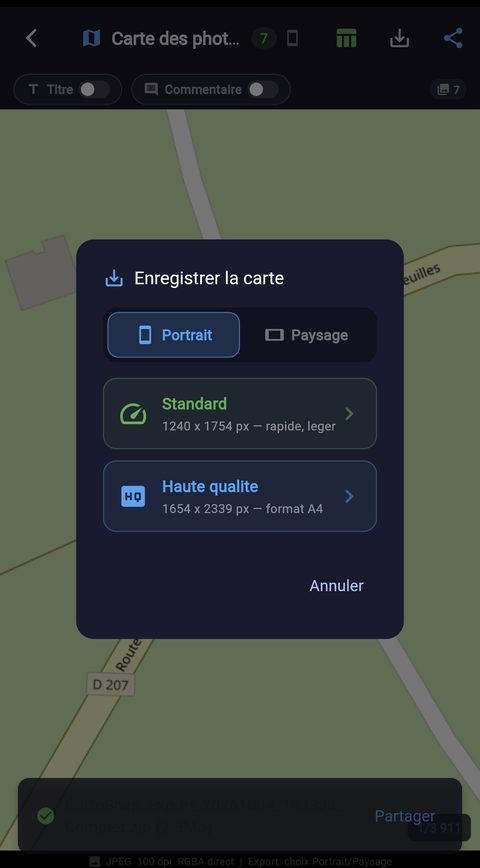
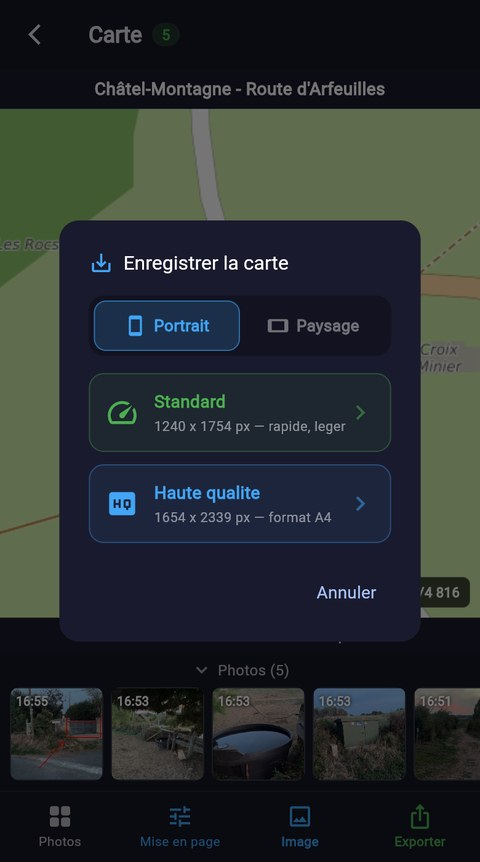
README : captures de la nouvelle interface (v1.2.0)
Claude-Session: https://claude.ai/code/session_01N6yeTEZXbkzDEeub1JciT3

diff --git a/README.md b/README.md
@@ -27,12 +27,12 @@
 | 1 — Viser | 2 — Annoter | 3 — Retrouver |
 |:---:|:---:|:---:|
 | ![Viseur](docs/screenshots/viseur.jpg) | ![Annotation](docs/screenshots/annotation.jpg) | ![Galerie](docs/screenshots/galerie.jpg) |
-| Position GPS, adresse et X/Y Lambert 93<br>en direct, mini-carte et objectifs | Stylo 12 couleurs, commentaire<br>ajouté sous la photo | Galerie de l'appli :<br>adresse et date de chaque photo |
+| Position GPS, adresse et X/Y Lambert 93<br>en direct, cap, mini-carte ronde | Stylo 12 couleurs, commentaire<br>et canevas ajoutés sous la photo | Galerie classée par jour,<br>en grille ou en liste |
 
 | 4 — Vérifier | 5 — Situer | 6 — Exporter |
 |:---:|:---:|:---:|
 | ![Photo](docs/screenshots/photo_detail.jpg) | ![Carte des photos](docs/screenshots/carte_photos.jpg) | ![Export](docs/screenshots/export_donnees.jpg) |
-| Bandeau incrusté, X/Y, altitude,<br>précision et cap enregistrés | Carte des photos (vignettes)<br>et export JPEG de la carte | CSV, ZIP, projet QGIS<br>ou Carte HTML |
+| Canevas sous la photo, X/Y, altitude,<br>précision et cap enregistrés | Carte des photos, bandeau de vignettes,<br>mise en page et image JPEG | Compte rendu (Carte HTML), projet QGIS<br>ou photos + tableau Excel |
 
 | Résultat : la Carte HTML ouverte dans un navigateur |
 |:---:|
@@ -142,7 +142,7 @@ flutter test
 
 <p align="center"><img src="docs/screenshots/annotation.jpg" width="260" alt="Annotation"/></p>
 
-**3. Retrouver et vérifier.** La galerie (vignette en bas à gauche du viseur) présente les photos jour par jour, en grille ou en liste (bascule en haut à droite). Une photo ouverte montre le bandeau incrusté, les X/Y Lambert 93, l'altitude, la précision, le cap et le nom du fichier `AAAAMMJJHHMMSS_X…_Y….jpg`.
+**3. Retrouver et vérifier.** La galerie (vignette en bas à gauche du viseur) présente les photos jour par jour, en grille ou en liste (bascule en haut à droite). Une photo ouverte montre le bandeau ou le canevas ajouté sous la photo, les X/Y Lambert 93, l'altitude, la précision, le cap et le nom du fichier `AAAAMMJJHHMMSS_X…_Y….jpg`.
 
 <p align="center"><img src="docs/screenshots/galerie.jpg" width="260" alt="Galerie"/> &nbsp; <img src="docs/screenshots/photo_detail.jpg" width="260" alt="Détail d'une photo"/></p>
 
@@ -212,7 +212,8 @@ Le GPS fournit des coordonnées WGS84, traitées ici comme RGF93. L'écart entre
 | Photos de la version web | Gardées dans Safari, pas dans la photothèque : à exporter ou partager régulièrement. Safari peut effacer les données d'un site non installé sur l'écran d'accueil. |
 | Carte HTML hors connexion | Les photos et les coordonnées s'affichent, mais la carte (Leaflet et fonds) a besoin d'internet à l'ouverture. |
 | Rapport PDF | Produit par la fenêtre d'impression du système (*Enregistrer en PDF*), pas par l'application elle-même. |
-| Signature de l'APK | Signé avec une clé de test : une ancienne LambertSnap signée autrement doit être désinstallée avant d'installer CartoSnap. |
+| Résolution sur iPhone (web) | Safari capture une image du flux vidéo de la caméra (jusqu'à la 4K, en 16:9), pas une photo de l'appareil photo natif de l'iPhone. |
+| Signature de l'APK | Signé avec une clé de test : Android peut demander de désinstaller la version précédente avant une mise à jour. Les photos de `DCIM/CartoSnap` restent sur le téléphone et sont retrouvées au démarrage (position, cap, date), sans leur adresse. |
 
 ---
 
@@ -220,27 +221,29 @@ Le GPS fournit des coordonnées WGS84, traitées ici comme RGF93. L'écart entre
 
 ### Description
 
-CartoSnap is a Flutter field camera app that geotags photos and computes their **Lambert 93 (EPSG:2154)** coordinates on the device, with no online service and no external projection library. Each photo gets a standardised file name and a burned-in coordinate banner, and can be exported to CSV, GeoJSON, a ready-to-open QGIS project or a shareable **HTML map** that prints to a **PDF report**. It runs on Android (APK) and on iPhone (web version in Safari).
+CartoSnap is a Flutter field camera app that geotags photos and computes their **Lambert 93 (EPSG:2154)** coordinates on the device, with no online service and no external projection library. Photos are kept at **full sensor resolution**, get a standardised file name and a coordinate banner added **below** the image, and can be exported as an **HTML map** (printable to a **PDF report**), a ready-to-open **QGIS project** or photos + CSV for Excel. It runs on Android (APK) and on iPhone (web version in Safari).
 
 ### Features
 
 - **Built-in Lambert 93 conversion**: RGF93 / GRS80 conformal conic projection (IGN algorithms), WGS84 ↔ Lambert 93 both ways, sub-millimetre agreement with PROJ.
-- **Automatic naming**: `YYYYMMDDHHMMSS_X652469_Y6862035[_prefix].jpg`.
-- **GPS banner**: address, `X … Y … | EPSG:2154`, altitude and accuracy burned into the photo.
-- **Annotation**: pen, comment below the photo, GPS canvas or GPS banner.
+- **Automatic naming**: `YYYYMMDDHHMMSS_X652469_Y6862035[_suffix].jpg`, at capture time, with an optional site suffix (accents removed, only letters, digits, `-` and `_` kept).
+- **Full-resolution photos**, kept as they are on the device; downscaling to 1600 px is optional at export.
+- **Clean viewfinder**: GPS status, time and buttons on a light top gradient; two-line bottom banner (address, Lambert 93 or WGS84 X/Y, altitude, accuracy colour-coded, heading) that folds into a one-line pill; round mini-map that expands on tap; landscape layout. A lost GPS signal is flagged and the photo is then saved without coordinates.
+- **Compass**: camera heading shown in the viewfinder and stored in EXIF (`GPSImgDirection`), on Android and in Safari on iPhone (permission asked on first tap); smoothed, restarted if the sensor freezes.
+- **Annotation**: pen (12 colours, 6 widths, undo), comment, and a **canvas added below the photo** (comment, address and date, Lambert 93 X/Y, altitude, accuracy, heading). Without annotation, a GPS banner with the heading is added below the photo.
 - **Reverse geocoding** through Nominatim (OSM), 1 request per second, short address (street, else hamlet, else town).
-- **Gallery and photo map**: clustering, forced scale, A4 JPEG map export at 100 dpi (portrait or landscape, standard or high quality).
-- **Compass heading** stored in EXIF (magnetic north on Android, true north on iOS) and **lens selector** (0.5x / 1x / tele) when several rear cameras are exposed.
-- **Exports**: CSV (`;`, UTF-8 BOM), ZIP photos + CSV, QGIS ZIP (GeoJSON + `.qgz`/`.qgs` + `photos/`, photos shown as thumbnails), full ZIP, **HTML map**.
-- **HTML map**: one self-contained `.html` file readable in any browser: Leaflet map with basemap switch (OSM France, OpenTopoMap, IGN aerial imagery), numbered markers, popups with photo, date, Lambert 93 X/Y, address and accuracy, full-screen viewer, grid of all photos. Photos are downscaled to 1600 px and embedded, so the file can be e-mailed.
+- **Gallery grouped by day** (one day ≈ one site), grid or list, *Export this day*, bottom action bar (Map, Select, Export, More), per-day selection with counters.
+- **Photo map**: clustering, foldable thumbnail strip (tap = centre the map), forced scale, bottom action bar (Photos, Layout, Image, Export), A4 JPEG map at 100 dpi (portrait or landscape, standard or high quality) with title and comment.
+- **Exports**, three usage-based choices with an estimated size: *Send a report* (HTML map), *Open in QGIS* (ZIP: project, GeoJSON, CSV, photos), *Photos + Excel table* (ZIP: photos + CSV); all photos, one day or a selection; photos downscaled to 1600 px (EXIF kept) or original.
+- **HTML map**: one self-contained `.html` file readable in any browser: Leaflet map with basemap switch (OSM France, OpenTopoMap, IGN aerial imagery), numbered markers, popups with photo, date, Lambert 93 X/Y, address and accuracy, full-screen viewer, grid of all photos. Photos are downscaled to 1600 px (by the browser itself on the web version) and embedded, so the file can be e-mailed.
 - **PDF report** (*Exporter en PDF* button of the HTML map): editable title, A4 or A3, portrait or landscape; page 1 = the map as displayed, next pages = 6 photos per page with Lambert 93 captions; produced by the system print dialog, without browser headers and footers.
 - **iPhone (web) version**: the same app in Safari, installable on the home screen; photos kept in the browser (IndexedDB), shared through the iOS share sheet, same exports.
-- **Faithful viewfinder**: the preview shows the whole frame, exactly what the photo will contain.
 - **Location off or denied**: a red banner says so; on Android it opens the system settings, on iPhone it opens a step-by-step Safari settings guide.
 - **Basemap setting**: OpenStreetMap France or OpenTopoMap, used by every map and the QGIS project.
-- **Old photo repair** (Gallery → ⋮): PNG-in-`.jpg` re-encoded, GPS EXIF rewritten, file names fixed, Paris demo positions cleared.
-- **GPS EXIF** in every geotagged photo, banner and annotation included (JPEG re-encoding, quality 92).
-- **No made-up position**: with GPS off or denied, photos are saved without coordinates (empty X/Y in exports, null geometry in GeoJSON); tracking resumes when GPS is turned back on.
+- **Updates without data loss**: stored data is versioned and migrated at startup; after a reinstall, photos found in the folder are recovered from their EXIF (position, heading, date), or through Gallery → More → *Find my photos*.
+- **GPS EXIF** in every geotagged photo, banner and annotation included.
+- **No made-up position**: with GPS off, denied or lost, photos are saved without coordinates (empty X/Y in exports, null geometry in GeoJSON); tracking resumes when the signal returns.
+- **French interface**, including the standard Flutter texts (tooltips, menus).
 
 ### Installation
 
@@ -257,7 +260,7 @@ flutter test
 
 ### Usage
 
-The step-by-step screenshots are in [Aperçu rapide](#aperçu-rapide--quick-overview) and in the French *Utilisation* section: aim, annotate, browse the gallery, place photos on the map, export (CSV, ZIP, QGIS project or **HTML map** with a **PDF export** button).
+The step-by-step screenshots are in [Aperçu rapide](#aperçu-rapide--quick-overview) and in the French *Utilisation* section: aim (✎ button to annotate), annotate, browse the gallery by day, place photos on the map (*Map*, thumbnail strip, *Layout*, *Image*), then *Export*: HTML map (with a **PDF export** button), QGIS project or photos + CSV.
 
 ### Accuracy and fix of 2026-10-04
 
@@ -265,7 +268,7 @@ Earlier versions computed the projection exponent `n` incorrectly (0.7302 instea
 
 ### Known limitations
 
-Burned-in banners of photos taken before 0.94 keep their old coordinates (the repair tool fixes names, EXIF and format, not pixels). Android lens labels are guessed; on iPhone they come from Safari's camera names. Web photos live in Safari, not in the Photos app: export them regularly. The HTML map needs internet for its basemaps. The PDF report is made by the system print dialog. The APK is signed with a test key. See the French tables above for details.
+Banners of photos taken before 0.94 keep their old coordinates (the repair tool fixes names, EXIF and format, not pixels). Android lens labels are guessed; on iPhone they come from Safari's camera names. On iPhone the web version captures a frame of the camera video stream (up to 4K, 16:9), not a photo from the native camera app. Web photos live in Safari, not in the Photos app: export them regularly. The HTML map needs internet for its basemaps. The PDF report is made by the system print dialog. The APK is signed with a test key: Android may require uninstalling the previous version before an update (photos in `DCIM/CartoSnap` stay on the phone and are recovered at startup, without their address). See the French tables above for details.
 
 ---
 
@@ -273,17 +276,21 @@ Burned-in banners of photos taken before 0.94 keep their old coordinates (the re
 
 ### Descripción
 
-CartoSnap es una aplicación Flutter de cámara de campo que georreferencia cada foto y calcula sus coordenadas **Lambert 93 (EPSG:2154)** en el propio teléfono, con nombre de archivo normalizado, banda de coordenadas y exportación a CSV, GeoJSON, proyecto QGIS, mapa HTML e informe PDF. También genera un mapa HTML con informe PDF y funciona en iPhone (versión web).
+CartoSnap es una aplicación Flutter de cámara de campo que georreferencia cada foto y calcula sus coordenadas **Lambert 93 (EPSG:2154)** en el propio teléfono. Las fotos se guardan **a resolución completa**, con nombre de archivo normalizado y banda de coordenadas añadida **debajo** de la imagen, y se exportan como **mapa HTML** (con informe PDF), **proyecto QGIS** o fotos + CSV para Excel. Funciona en Android (APK) y en iPhone (versión web en Safari).
 
 ### Funcionalidades
 
 - Conversión WGS84 ↔ Lambert 93 integrada (algoritmos IGN)
-- Nombre de archivo con fecha y coordenadas X/Y
-- Banda GPS, anotación con lápiz y comentario
-- Galería, mapa de fotos y exportación JPEG A4
-- Exportación CSV, GeoJSON y proyecto QGIS `.qgz`/`.qgs`
-- **Mapa HTML**: un solo archivo `.html` con mapa (OSM France, OpenTopoMap, ortofoto IGN), marcadores, coordenadas Lambert 93 y fotos integradas
+- Nombre de archivo con fecha de la toma y coordenadas X/Y, sufijo de obra opcional
+- Fotos a resolución completa; reducción a 1600 px opcional al exportar (EXIF conservado)
+- Visor despejado: banda GPS de 2 líneas plegable, minimapa redondo, modo horizontal; pérdida de señal GPS señalada
+- Brújula en Android y en Safari (iPhone), rumbo guardado en el EXIF
+- Anotación con lápiz y comentario, lienzo añadido debajo de la foto
+- Galería **agrupada por día**, cuadrícula o lista, barra de acciones abajo, selección por día
+- Mapa de fotos con tira de miniaturas, imagen JPEG A4 con título y comentario
+- Exportación en 3 opciones según el uso, con tamaño estimado: **mapa HTML**, **proyecto QGIS** (`.qgz`/`.qgs`, GeoJSON, CSV), fotos + CSV
 - **Informe PDF** desde el mapa HTML: título, A4/A3, vertical/horizontal; página 1 = mapa, luego 6 fotos por página
+- Actualizaciones sin pérdida: datos versionados, fotos recuperadas tras una reinstalación
 - Versión web para iPhone (Safari)
 
 > Las capturas de pantalla se encuentran en la sección [Aperçu rapide](#aperçu-rapide--quick-overview) al inicio de este documento.
@@ -303,17 +310,21 @@ cd CartoSnap && flutter pub get && flutter run
 
 ### Descrição
 
-CartoSnap é uma aplicação Flutter de câmara de campo que georreferencia cada fotografia e calcula as suas coordenadas **Lambert 93 (EPSG:2154)** no próprio telemóvel, com nome de ficheiro normalizado, faixa de coordenadas e exportação para CSV, GeoJSON e projeto QGIS. Também gera um mapa HTML com relatório PDF e funciona no iPhone (versão web).
+CartoSnap é uma aplicação Flutter de câmara de campo que georreferencia cada fotografia e calcula as suas coordenadas **Lambert 93 (EPSG:2154)** no próprio telemóvel. As fotografias são guardadas **em resolução total**, com nome de ficheiro normalizado e faixa de coordenadas acrescentada **por baixo** da imagem, e exportadas como **mapa HTML** (com relatório PDF), **projeto QGIS** ou fotografias + CSV para Excel. Funciona em Android (APK) e no iPhone (versão web no Safari).
 
 ### Funcionalidades
 
 - Conversão WGS84 ↔ Lambert 93 integrada (algoritmos IGN)
-- Nome de ficheiro com data e coordenadas X/Y
-- Faixa GPS, anotação com caneta e comentário
-- Galeria, mapa de fotografias e exportação JPEG A4
-- Exportação CSV, GeoJSON e projeto QGIS `.qgz`/`.qgs`
-- **Mapa HTML**: um único ficheiro `.html` com mapa (OSM France, OpenTopoMap, ortofoto IGN), marcadores, coordenadas Lambert 93 e fotografias integradas
+- Nome de ficheiro com a data da captura e as coordenadas X/Y, sufixo de obra opcional
+- Fotografias em resolução total; redução para 1600 px opcional na exportação (EXIF conservado)
+- Visor desimpedido: faixa GPS de 2 linhas recolhível, minimapa redondo, modo paisagem; perda de sinal GPS assinalada
+- Bússola em Android e no Safari (iPhone), rumo guardado no EXIF
+- Anotação com caneta e comentário, tela acrescentada por baixo da fotografia
+- Galeria **agrupada por dia**, grelha ou lista, barra de ações em baixo, seleção por dia
+- Mapa de fotografias com faixa de miniaturas, imagem JPEG A4 com título e comentário
+- Exportação em 3 opções por utilização, com tamanho estimado: **mapa HTML**, **projeto QGIS** (`.qgz`/`.qgs`, GeoJSON, CSV), fotografias + CSV
 - **Relatório PDF** a partir do mapa HTML: título, A4/A3, retrato/paisagem; página 1 = mapa, depois 6 fotografias por página
+- Atualizações sem perda: dados versionados, fotografias recuperadas após reinstalação
 - Versão web para iPhone (Safari)
 
 > As capturas de ecrã encontram-se na secção [Aperçu rapide](#aperçu-rapide--quick-overview) no início deste documento.
@@ -333,17 +344,21 @@ cd CartoSnap && flutter pub get && flutter run
 
 ### Beschreibung
 
-CartoSnap ist eine Flutter-Feldkamera-App, die jedes Foto georeferenziert und seine **Lambert-93-Koordinaten (EPSG:2154)** direkt auf dem Gerät berechnet – mit normiertem Dateinamen, eingeblendetem Koordinatenband und Export nach CSV, GeoJSON und als QGIS-Projekt. Außerdem erzeugt sie eine HTML-Karte mit PDF-Bericht und läuft auf dem iPhone (Web-Version).
+CartoSnap ist eine Flutter-Feldkamera-App, die jedes Foto georeferenziert und seine **Lambert-93-Koordinaten (EPSG:2154)** direkt auf dem Gerät berechnet. Die Fotos werden in **voller Auflösung** gespeichert, erhalten einen normierten Dateinamen und ein Koordinatenband **unter** dem Bild und lassen sich als **HTML-Karte** (mit PDF-Bericht), **QGIS-Projekt** oder Fotos + CSV für Excel exportieren. Sie läuft auf Android (APK) und auf dem iPhone (Web-Version in Safari).
 
 ### Funktionen
 
 - Integrierte Umrechnung WGS84 ↔ Lambert 93 (IGN-Algorithmen)
-- Dateiname mit Datum und X/Y-Koordinaten
-- GPS-Band, Annotation mit Stift und Kommentar
-- Galerie, Fotokarte und A4-JPEG-Export
-- Export als CSV, GeoJSON und QGIS-Projekt `.qgz`/`.qgs`
-- **HTML-Karte**: eine einzige `.html`-Datei mit Karte (OSM France, OpenTopoMap, IGN-Luftbild), Markern, Lambert-93-Koordinaten und eingebetteten Fotos
+- Dateiname mit Aufnahmezeitpunkt und X/Y-Koordinaten, optionales Baustellen-Suffix
+- Fotos in voller Auflösung; Verkleinerung auf 1600 px beim Export wählbar (EXIF bleibt erhalten)
+- Aufgeräumter Sucher: zweizeiliges, einklappbares GPS-Band, runde Minikarte, Querformat; GPS-Signalverlust wird angezeigt
+- Kompass unter Android und in Safari (iPhone), Blickrichtung im EXIF gespeichert
+- Annotation mit Stift und Kommentar, Infobereich unter dem Foto
+- Galerie **nach Tagen gruppiert**, Raster oder Liste, Aktionsleiste unten, Auswahl pro Tag
+- Fotokarte mit Miniaturleiste, A4-JPEG-Bild mit Titel und Kommentar
+- Export in 3 zweckbezogenen Varianten mit geschätzter Größe: **HTML-Karte**, **QGIS-Projekt** (`.qgz`/`.qgs`, GeoJSON, CSV), Fotos + CSV
 - **PDF-Bericht** aus der HTML-Karte: Titel, A4/A3, Hoch-/Querformat; Seite 1 = Karte, danach 6 Fotos pro Seite
+- Updates ohne Datenverlust: versionierte Daten, Fotos nach einer Neuinstallation wiederhergestellt
 - Web-Version für das iPhone (Safari)
 
 > Die Screenshots befinden sich im Abschnitt [Aperçu rapide](#aperçu-rapide--quick-overview) am Anfang dieses Dokuments.
